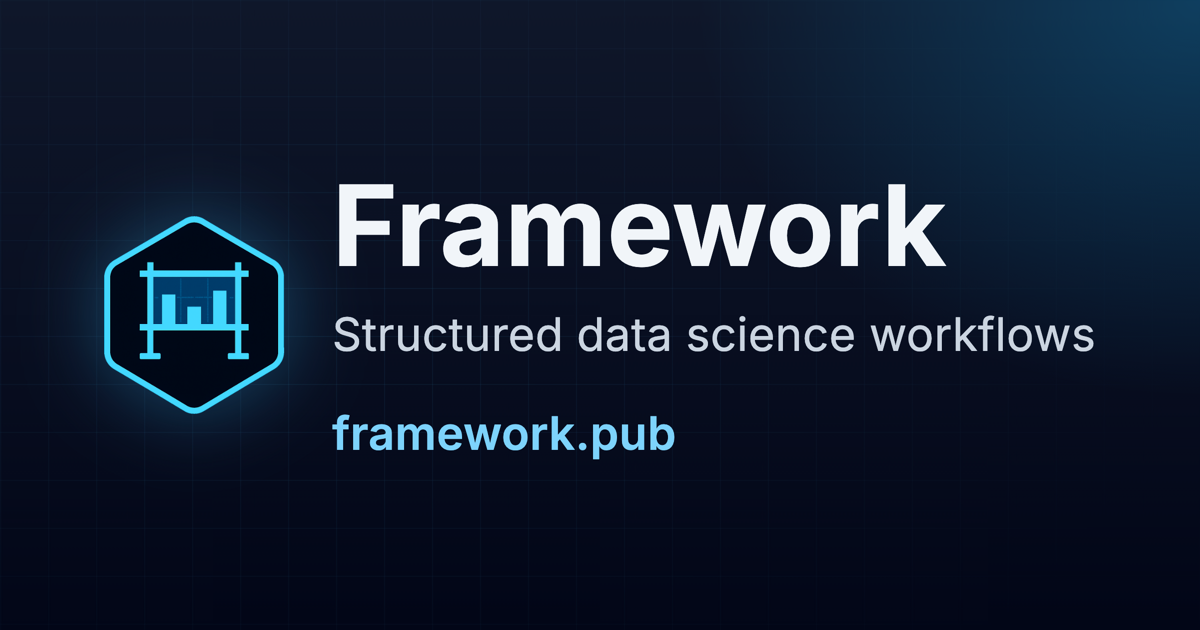
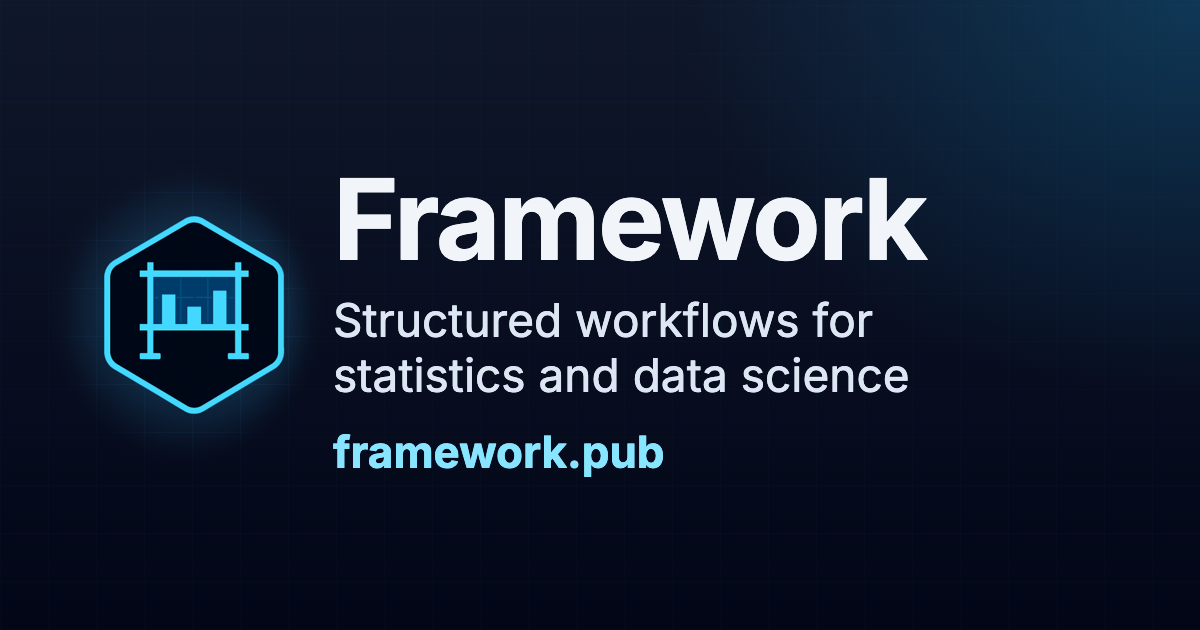
feat: the page title, share text, and share image say Structured workflows for statistics and data science

Changed region(s): [[0.2775, 0.4825, 0.925, 0.6333], [0.2775, 0.2714, 0.8017, 0.4222], [0.2775, 0.6635, 0.5858, 0.754]]

diff --git a/resources/views/components/share-meta.blade.php b/resources/views/components/share-meta.blade.php
@@ -1,5 +1,5 @@
 @props([
-    'title' => 'Framework: Structured data science workflows',
+    'title' => 'Framework: Structured workflows for statistics and data science',
     'description' => 'Reproducible research with R, Python, and the Framework CLI. Create projects, connect databases, track data integrity, and publish versioned figures, tables, models, and reports.',
 ])
 {{-- What a link preview shows when someone shares this page. --}}
@@ -11,5 +11,5 @@
 <meta property="og:image" content="{{ rtrim(config('app.url'), '/') }}/images/og.png">
 <meta property="og:image:width" content="1200">
 <meta property="og:image:height" content="630">
-<meta property="og:image:alt" content="Framework: Structured data science workflows, at framework.pub">
+<meta property="og:image:alt" content="Framework: Structured workflows for statistics and data science, at framework.pub">
 <meta name="twitter:card" content="summary_large_image">

diff --git a/resources/views/welcome.blade.php b/resources/views/welcome.blade.php
@@ -3,7 +3,7 @@
 <head>
     <meta charset="utf-8">
     <meta name="viewport" content="width=device-width, initial-scale=1">
-    <title>Framework: Structured data science workflows</title>
+    <title>Framework: Structured workflows for statistics and data science</title>
     <meta name="description" content="Reproducible research with R, Python, and the Framework CLI. Create projects, connect databases, track data integrity, and publish versioned figures, tables, models, and reports.">
     <link rel="icon" type="image/png" href="/images/favicon.png">
     <x-share-meta />

diff --git a/resources/views/profile.blade.php b/resources/views/profile.blade.php
@@ -49,7 +49,7 @@
     </main>
 
     <footer class="mx-auto max-w-3xl border-t border-slate-200 px-6 py-8 text-sm text-slate-500 dark:border-slate-800 dark:text-slate-400">
-        <a href="/" class="hover:underline">Framework Cloud</a> · Structured data science workflows in R, Python, and Stata
+        <a href="/" class="hover:underline">Framework Cloud</a> · Structured workflows for statistics and data science in R, Python, and Stata
     </footer>
 </body>
 </html>

diff --git a/tests/Feature/ShareImageTest.php b/tests/Feature/ShareImageTest.php
@@ -23,6 +23,6 @@ class ShareImageTest extends TestCase
 
     public function test_the_homepage_preview_names_framework_and_its_tagline(): void
     {
-        $this->get('/')->assertSee('<meta property="og:title" content="Framework: Structured data science workflows">', false);
+        $this->get('/')->assertSee('<meta property="og:title" content="Framework: Structured workflows for statistics and data science">', false);
     }
 }

diff --git a/tests/Feature/HomepageTest.php b/tests/Feature/HomepageTest.php
@@ -15,7 +15,7 @@ class HomepageTest extends TestCase
     {
         $this->get('/')
             ->assertOk()
-            ->assertSee('Structured data science workflows')
+            ->assertSee('Structured workflows for statistics and data science')
             ->assertSee('Start your project')
             ->assertSee('Conduct your analysis')
             ->assertSee('Publish your work')

diff --git a/tests/Feature/Docs/DocsSitesTest.php b/tests/Feature/Docs/DocsSitesTest.php
@@ -60,7 +60,7 @@ class DocsSitesTest extends DocsTestCase
     {
         $this->get('http://framework.test/')
             ->assertOk()
-            ->assertSee('Structured data science workflows');
+            ->assertSee('Structured workflows for statistics and data science');
     }
 
     public function test_fw_docs_host_is_still_the_r_host(): void
